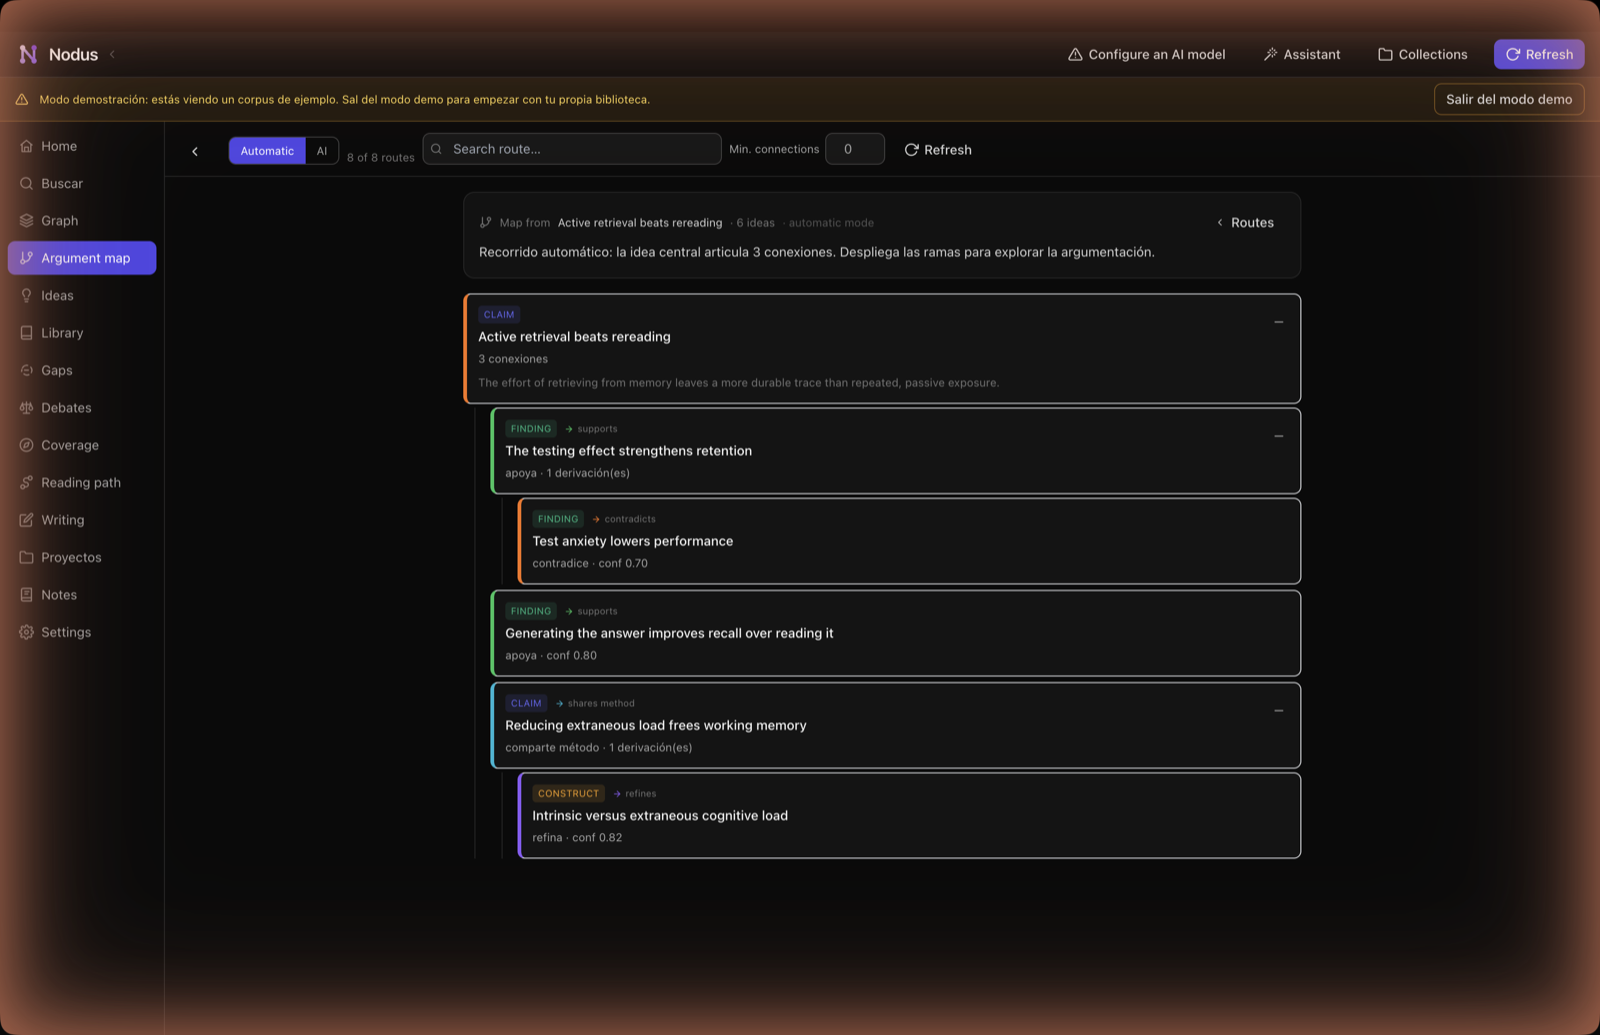
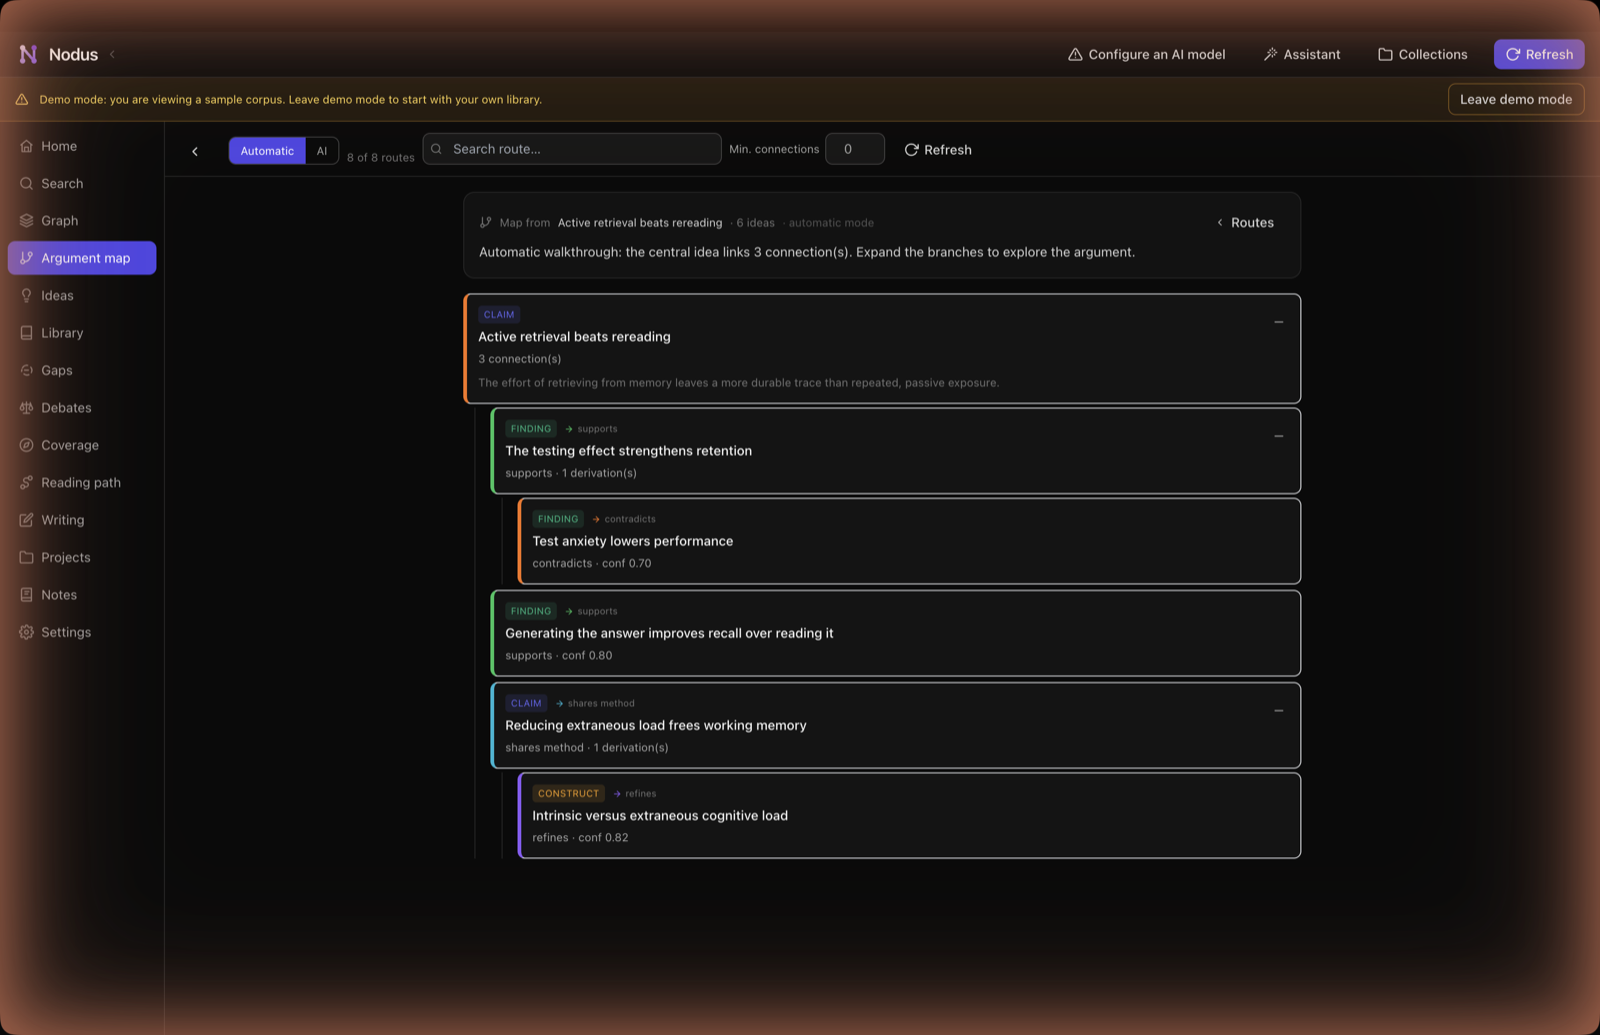
i18n: translate leftover Spanish UI strings (English mode)
When the interface language is English, several strings still fell back to
Spanish. Fixed:

- i18n.en.ts: add missing keys — sidebar Buscar→Search, Proyectos→Projects;
  the demo-mode banner and "Leave demo mode"; "Find sources" (gaps),
  "summaries done" (library), "No project source" (writing), and the four
  Notes sort labels.
- argumentMap.ts: the structural (auto-mode) overview and block summaries were
  built in Spanish in the backend and rendered verbatim. They now follow the
  interface language (English edge labels + localized templates).

Re-captured the README argument-map screenshot in English. Bumps to 0.7.15.

diff --git a/electron/ai/argumentMap.ts b/electron/ai/argumentMap.ts
@@ -2,6 +2,7 @@ import { v4 as uuid } from 'uuid';
 import type { ArgumentBlock, ArgumentMap, ArgumentMapRequest, ArgumentRouteSuggestion, EdgeType, IdeaType, ModelRef } from '@shared/types';
 import { getDb } from '../db/database';
 import { getIdeaSummary } from '../db/ideasRepo';
+import { getSettings } from '../db/settingsRepo';
 import { completeJson } from './aiClient';
 
 // The argument map is built from the LOCAL subgraph around the seed idea (BFS
@@ -26,6 +27,21 @@ const EDGE_TYPE_LABELS: Record<string, string> = {
   measures_same: 'mide lo mismo',
   supports: 'apoya',
   refutes: 'refuta',
+};
+
+// English counterpart for the structural (auto-mode) overview/summary, which are
+// shown verbatim in the UI; picked by the interface language.
+const EDGE_TYPE_LABELS_EN: Record<string, string> = {
+  extends: 'extends',
+  variant_of: 'variant of',
+  refines: 'refines',
+  contradicts: 'contradicts',
+  applies_to: 'applies to',
+  shares_method: 'shares method',
+  precondition_of: 'precondition of',
+  measures_same: 'measures the same',
+  supports: 'supports',
+  refutes: 'refutes',
 };
 
 const VALID_RELATIONS = new Set<string>([
@@ -437,6 +453,9 @@ export function buildStructuralArgumentMap(seedIdeaId: string): ArgumentMap {
     (adj.get(e.to_id) ?? adj.set(e.to_id, []).get(e.to_id)!).push({ other: e.from_id, edge: e });
   }
 
+  const lang: 'es' | 'en' = getSettings().uiLanguage === 'en' ? 'en' : 'es';
+  const relLabelOf = (rel: string): string =>
+    (lang === 'en' ? EDGE_TYPE_LABELS_EN[rel] : EDGE_TYPE_LABELS[rel]) ?? rel;
   const seedDegree = adj.get(seed.global_id)?.length ?? 0;
   const seedDebate =
     (adj.get(seed.global_id) ?? []).filter((n) => n.edge.type === 'contradicts' || n.edge.type === 'refutes').length;
@@ -464,10 +483,17 @@ export function buildStructuralArgumentMap(seedIdeaId: string): ArgumentMap {
     const childCount = children.length;
     let summary: string;
     if (relation === 'root') {
-      summary = `${seedDegree} conexiones${seedDebate ? ` · ${seedDebate} debate(s)` : ''}`;
+      summary =
+        lang === 'en'
+          ? `${seedDegree} connection(s)${seedDebate ? ` · ${seedDebate} debate(s)` : ''}`
+          : `${seedDegree} conexiones${seedDebate ? ` · ${seedDebate} debate(s)` : ''}`;
     } else {
-      const relLabel = EDGE_TYPE_LABELS[relation] ?? relation;
-      summary = childCount > 0 ? `${relLabel} · ${childCount} derivación(es)` : `${relLabel} · conf ${parentEdge!.confidence.toFixed(2)}`;
+      const relLabel = relLabelOf(relation);
+      const branches =
+        childCount > 0
+          ? `${relLabel} · ${childCount} ${lang === 'en' ? 'derivation(s)' : 'derivación(es)'}`
+          : `${relLabel} · conf ${parentEdge!.confidence.toFixed(2)}`;
+      summary = branches;
     }
 
     return {
@@ -485,10 +511,16 @@ export function buildStructuralArgumentMap(seedIdeaId: string): ArgumentMap {
   const root = buildNode(seed.global_id, null, new Set([seed.global_id]), 0);
   const overview =
     seedDegree === 0
-      ? 'La idea seleccionada no tiene conexiones directas con otras ideas.'
-      : `Recorrido automático: la idea central articula ${seedDegree} conexiones${
-          seedDebate ? `, de las cuales ${seedDebate} son debates (contradicciones/refutaciones)` : ''
-        }. Despliega las ramas para explorar la argumentación.`;
+      ? lang === 'en'
+        ? 'The selected idea has no direct connections to other ideas.'
+        : 'La idea seleccionada no tiene conexiones directas con otras ideas.'
+      : lang === 'en'
+        ? `Automatic walkthrough: the central idea links ${seedDegree} connection(s)${
+            seedDebate ? `, of which ${seedDebate} are debates (contradictions/refutations)` : ''
+          }. Expand the branches to explore the argument.`
+        : `Recorrido automático: la idea central articula ${seedDegree} conexiones${
+            seedDebate ? `, de las cuales ${seedDebate} son debates (contradicciones/refutaciones)` : ''
+          }. Despliega las ramas para explorar la argumentación.`;
 
   return {
     seedIdeaId: seed.global_id,

diff --git a/src/i18n.en.ts b/src/i18n.en.ts
@@ -15,6 +15,24 @@ export const EN: Record<string, string> = {
   Escritura: 'Writing',
   Debates: 'Debates',
   Ajustes: 'Settings',
+  Buscar: 'Search',
+  Proyectos: 'Projects',
+
+  // ── Demo mode ──────────────────────────────────────────────────────────────────
+  'Modo demostración: estás viendo un corpus de ejemplo. Sal del modo demo para empezar con tu propia biblioteca.':
+    'Demo mode: you are viewing a sample corpus. Leave demo mode to start with your own library.',
+  'Salir del modo demo': 'Leave demo mode',
+  'Saliendo…': 'Leaving…',
+
+  // ── Leftover labels (gaps · library · writing · notes) ──────────────────────
+  'Buscar fuentes': 'Find sources',
+  'Buscar fuentes para el hueco': 'Find sources for the gap',
+  'resúmenes hechos': 'summaries done',
+  'Sin origen de proyecto': 'No project source',
+  'Orden manual': 'Manual order',
+  'Alfabético (A–Z)': 'Alphabetical (A–Z)',
+  'Creación: recientes primero': 'Created: newest first',
+  'Creación: antiguas primero': 'Created: oldest first',
 
   // ── Debate view (contradiction face-offs) ──────────────────────────────────
   '{n} sin reconciliar': '{n} unreconciled',